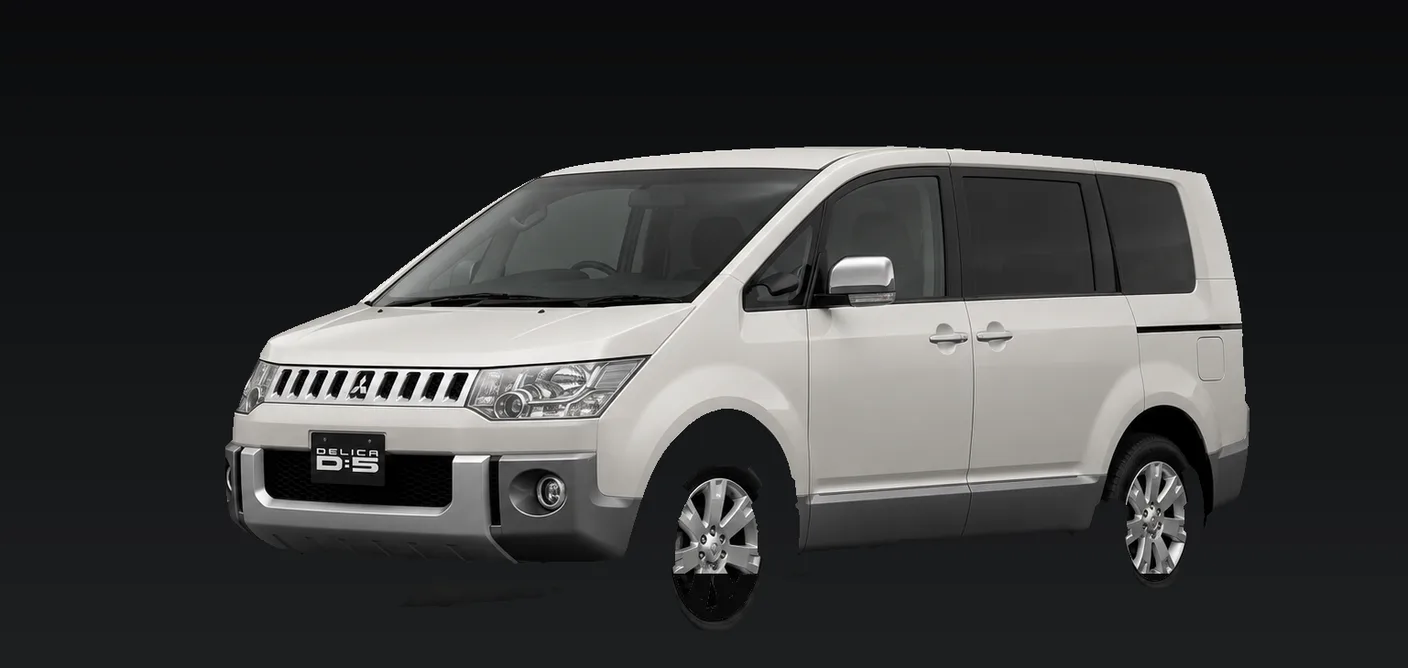
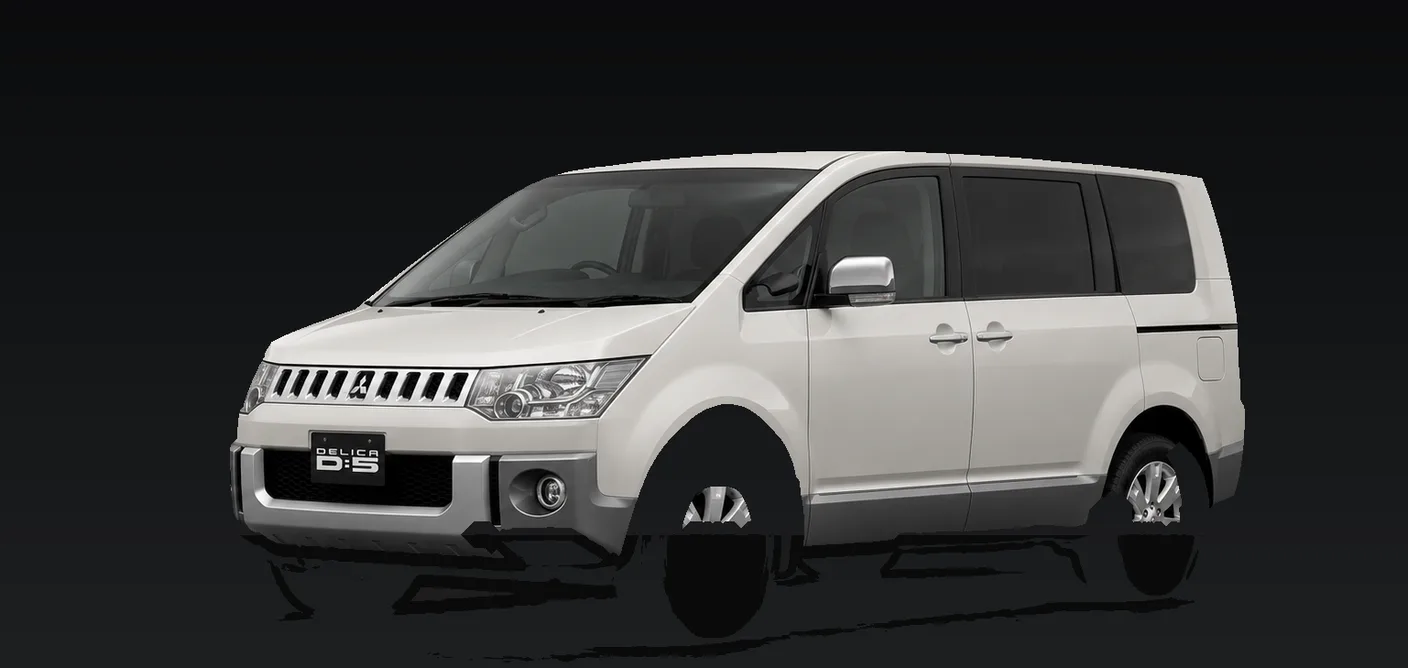
fix: Delica Hero reverts to original black photo, wash artifact truly fixed
- Hero now uses デリカTOP.png as-is (black), per explicit direction --
  its authentic studio fog/floor-reflection reads closer to VOXY/
  SERENA's own Hero photos than the white gen2-based substitute did.
  Documented as a knowing exception to the color-consistency rule
  (Hero black, generation photos white) rather than an oversight.

- gen1/gen2 photos rebuilt again: the previous floor-crush fix reduced
  but didn't fully eliminate a pale wash artifact under the wheels,
  confirmed against the actual rendered page rather than the full-size
  file alone. Widened the floor-crush band, raised its brightness
  ceiling to catch the soft anti-aliased transition zone that survived
  the last pass, and increased mask dilation from 8 to 14 iterations.
  Verified this time by simulating Timeline's actual 1.55x zoomed crop,
  not just inspecting the full 1408x668 frame.

diff --git a/src/cars/delica-d5.js b/src/cars/delica-d5.js
@@ -98,19 +98,21 @@ export default {
   // `specs` field below is the real, separately-sourced display data).
   referenceLengthMm: 4790,
   tagline: 'かたちは、時代を語る。',
-  // Hero reuses the same source photo as gen2 (後期, white) rather than
-  // the originally-supplied デリカTOP.png, which depicted a black
-  // example -- a real color-consistency violation caught in review (see
-  // "What Representative Grade and Color are" in design-identity.md).
-  // A black-to-white paint recolor of デリカTOP.png itself was tried
-  // and rejected on inspection: a genuinely black photo has no hidden
-  // white diffuse-reflectance data to recover, so lifting shadow/
-  // midtone luminance posterized into a harsh edge-lit silhouette
-  // instead of a clean repaint -- unlike the yellow/beige recolors on
-  // Sienta/Solio, which had real color+saturation to remap. Recropped
-  // for Hero's own tighter/taller framing; background normalized the
-  // same way as every generation photo, plus a vignette/grain pass and
-  // a 7% zoom so the car reads larger on Home's card (same file).
+  // Hero uses the original デリカTOP.png as-is (black), by explicit
+  // decision -- its atmospheric studio lighting (fog, floor reflection)
+  // reads closer to VOXY/SERENA's own Hero photos than any available
+  // white alternative, and a black-to-white paint recolor was tried and
+  // rejected (a genuinely black photo has no hidden white diffuse-
+  // reflectance data to recover; lifting shadow/midtone luminance
+  // posterized into a harsh edge-lit silhouette instead of a clean
+  // repaint -- unlike the yellow/beige recolors on Sienta/Solio, which
+  // had real color+saturation to remap). This means Hero (black) and
+  // the generation photos (white, per representativeColor below) are
+  // knowingly NOT the same color -- an accepted exception to this
+  // project's color-consistency rule, prioritizing Hero's studio mood
+  // over strict color matching for this vehicle specifically. Only
+  // cropped/padded to the shared 1408x668 hero canvas; not recolored,
+  // background-processed, or zoomed beyond that.
   heroImage: '/images/cars/delica-d5/hero-cv1w-3q.webp',
   seo: {
     title: 'DELICA D:5 歴代モデル一覧 — CarVista',

diff --git a/docs/brand/design-identity.md b/docs/brand/design-identity.md
@@ -117,7 +117,7 @@ No two vehicles share a Design Identity keyword within the same cluster — chec
 | Vellfire | Z Premier | Black | The current (40系) generation ships in only two colors, Black (standard/no-cost) and Platinum White Pearl Mica (paid) — Black is sourced as conveying "力強さと高級感" (boldness), matching Bold/Aggressive better than the white option. Z Premier is the mainstream signature-face grade, distinct from the cabin-focused Executive Lounge halo trim — same reasoning as Alphard's own Z choice. |
 | ESQUIRE | Gi | Black | "Gi" is the premium-tier grade (vs. base "Xi") -- a documented special package on it is literally named "Gi プレミアムパッケージ ブラックテーラード" (Gi Premium Package Black Tailored), which sources both the grade and the color at once and reinforces Refined/Elegant/Polished directly ("Tailored"). |
 | FREED | AIR | Fjord Mist Pearl | "AIR" is the current generation's standard-trim lineup (vs. the SUV-styled CROSSTAR) -- coincidentally the same "AIR" name Honda also uses for STEPWGN's standard trim, unrelated nameplates. "フィヨルドミスト・パール" (name verified 2026-07-31, no "II" suffix) is a real Honda color available on FREED -- also used on STEPWGN, not AIR-exclusive as an earlier version of this row claimed. Sourced as evoking cool Nordic air, matching Approachable/Cheerful's light, airy register, and matches the supplied reference photos. |
-| デリカD:5 | G | ダイヤモンドホワイトパール | "G" is the current lineup's base grade (vs. P / G-Power Package / LUXFZ-LUDFZ) -- standard, not loaded, matching Functional. Diamond White Pearl is sourced as the current model's most popular color and matches both generation photos. Hero reuses the gen2 (後期) source photo, recropped, instead of the originally-supplied black example -- avoids a color mismatch without any recolor risk. |
+| デリカD:5 | G | ダイヤモンドホワイトパール | "G" is the current lineup's base grade (vs. P / G-Power Package / LUXFZ-LUDFZ) -- standard, not loaded, matching Functional. Diamond White Pearl is sourced as the current model's most popular color and matches both generation photos. **Exception**: Hero uses the original black デリカTOP.png as-is, by explicit decision -- its atmospheric studio lighting reads closer to VOXY/SERENA's own Hero photos than any available white alternative, and black-to-white recoloring was tried and rejected (see src/cars/delica-d5.js's own comment). Hero and the generation photos are knowingly different colors; not a bug. |
 | ソリオ | HYBRID MX | ピュアホワイトパール | "HYBRID MX" is the mid/standard grade in the current 3-grade lineup (MG/MX/MZ) -- not base, not loaded. Pure White Pearl is sourced as this vehicle's most popular color. gen1's originally-supplied beige/champagne photo was recolored (hue/saturation remapped onto the original lightness/shading) to match. |
 | シエンタ | G | アーバンカーキ | "G" is the current lineup's best-selling standard grade (vs. entry X / top Z). アーバンカーキ is sourced as a real Toyota color name and matches the Hero and gen3 photos. gen1 (originally yellow) and gen2 (originally gold) were recolored the same way as ソリオ's gen1. gen2's black roof panel was left untouched (see the data-file comment in src/cars/sienta.js) -- a minor two-tone remainder, not a full match. |
 
